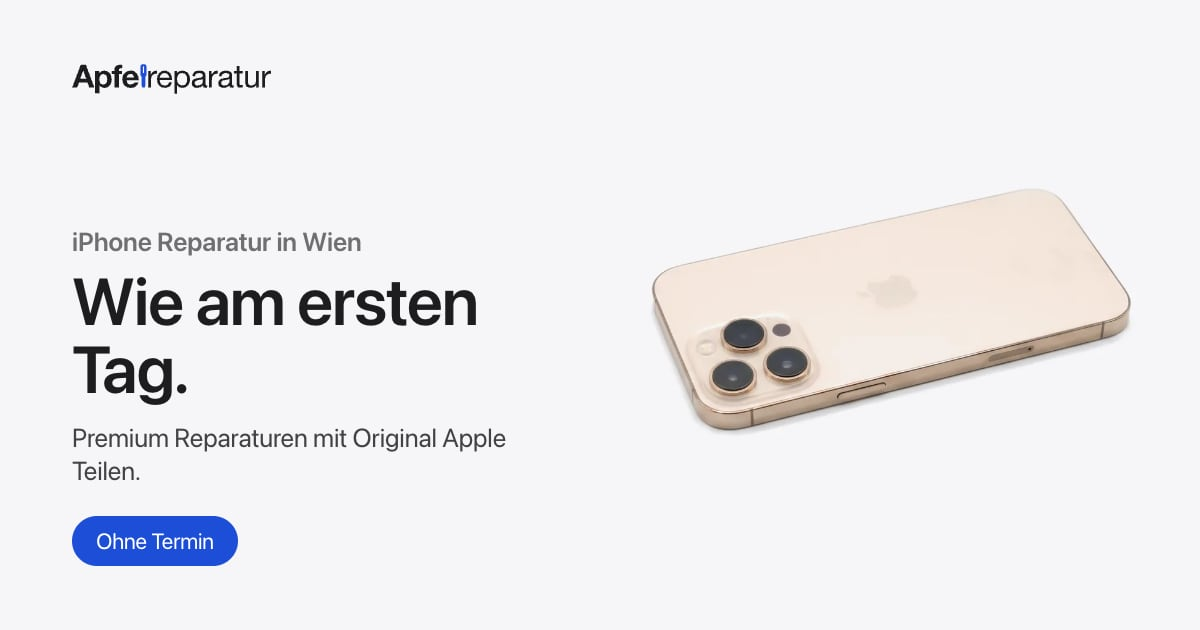
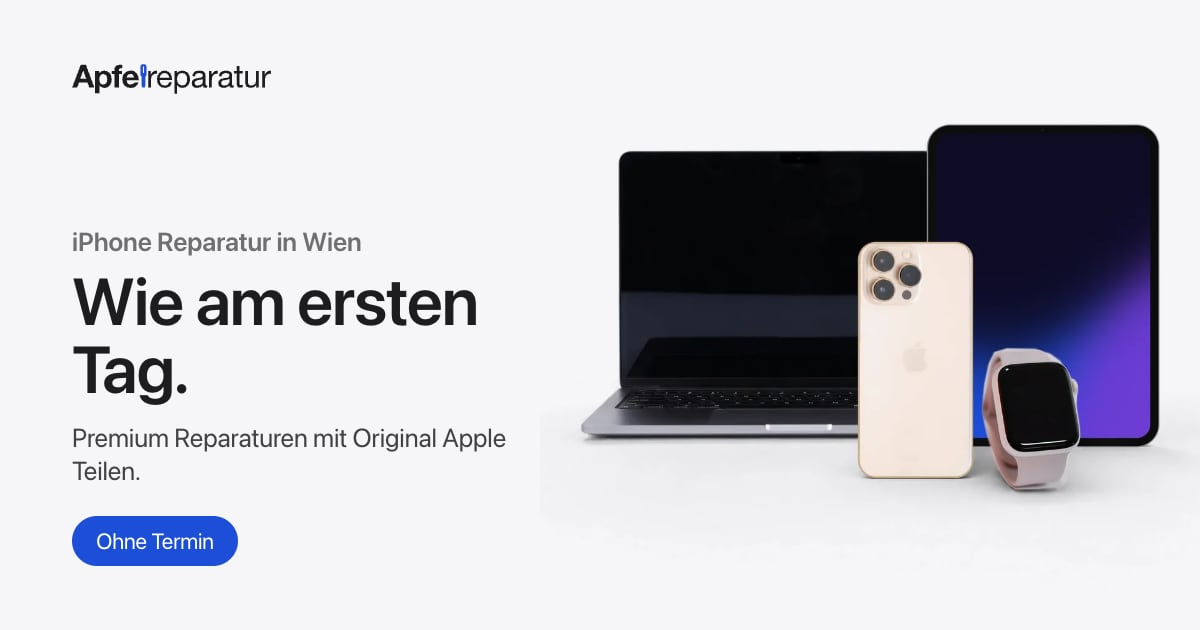
feat: hero shows MacBook, iPad, iPhone and Watch together
Composite of real photos (iPhone back rectified upright, standing watch,
iPad Air); AI only added background shadows. JSON-LD hero image now uses
the photo version instead of a hardcoded ?v=2.

Changed region(s): [[0.4625, 0.181, 0.9867, 0.8143]]

diff --git a/src/lib/photos.ts b/src/lib/photos.ts
@@ -3,7 +3,11 @@
 // v: bump when a photo's files change (URLs keep their name, assets are cached 30 days).
 // seamless: background is exactly --gray, so tiles show the whole shot without a fade.
 export const photos = {
-	hero: { w: 2400, h: 1530, alt: "Goldenes iPhone auf hellem Hintergrund", by: "webber Amir", id: 28919442, retouched: true, seamless: true, v: 2 },
+	// hero: composite of real photos (mac-hero, hero-iphone rectified upright, hero-watch, this iPad Air with screen replaced); AI only added shadows, device pixels are the originals.
+	hero: { w: 2400, h: 1530, alt: "MacBook, iPad, iPhone und Apple Watch auf hellem Hintergrund", by: "Luis Quintero", id: 13570171, retouched: true, seamless: true, v: 6 },
+	// credit only: parts of the hero composite, no files of their own.
+	"hero-iphone": { w: 2400, h: 1530, alt: "Goldenes iPhone auf hellem Hintergrund", by: "webber Amir", id: 28919442, retouched: true },
+	"hero-watch": { w: 2400, h: 3600, alt: "Apple Watch mit hellem Sportarmband", by: "Deise Elen", id: 31406903, retouched: true },
 	iphone: { w: 2400, h: 1600, alt: "Geöffnetes Smartphone mit Einzelteilen auf einer blauen Werkstattmatte", by: "Fotografia Lui Vlad", id: 31862953, retouched: true },
 	ipad: { w: 2400, h: 1600, alt: "Hand mit Eingabestift an einem Tablet auf einem weißen Schreibtisch", by: "cottonbro studio", id: 3944397 },
 	mac: { w: 2400, h: 1350, alt: "Geöffneter Laptop mit sichtbarer Platine auf einer Werkstattmatte", by: "Found GHI", id: 34514242 },

diff --git a/src/lib/seo.ts b/src/lib/seo.ts
@@ -2,6 +2,7 @@ import { business, type Location } from "./business";
 import type { QA } from "../components/FAQ.astro";
 import { deviceList } from "./content";
 import { repairPages } from "./repair-pages";
+import { photos } from "./photos";
 
 export const SITE = "https://apfelreparatur.at";
 const clean = <T extends object>(o: T) => JSON.parse(JSON.stringify(o)) as T;
@@ -19,7 +20,7 @@ export function localBusinessLd(locations: Location[] = []): object[] {
 			name: `${business.brand} ${l.name}`,
 			description: `iPhone, iPad und Mac Reparatur ohne Termin: ${l.venue}.`,
 			url: `${SITE}/kontakt`,
-			image: `${SITE}/img/hero-1600.webp?v=2`,
+			image: `${SITE}/img/hero-1600.webp?v=${photos.hero.v}`,
 			email: business.email,
 			telephone: l.phone,
 			parentOrganization: { "@id": `${SITE}/#business` },
